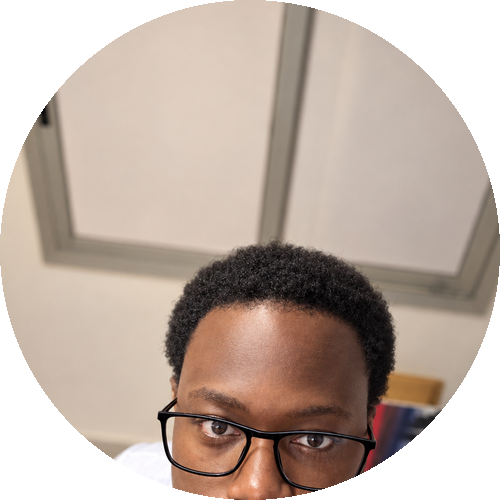
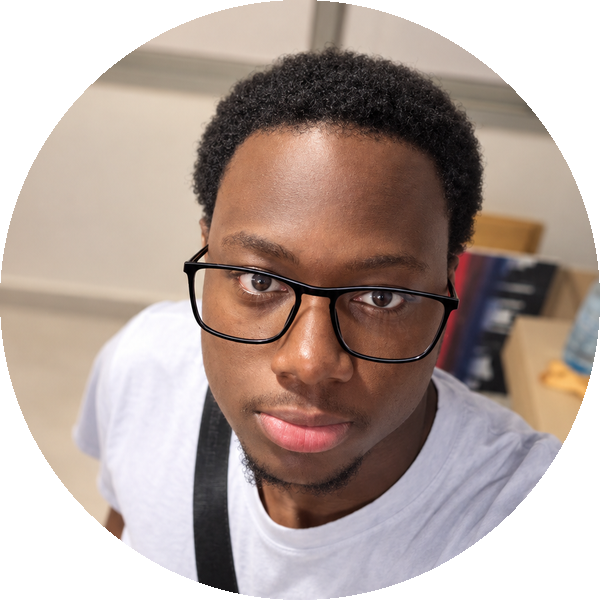
Refonte du profil avec les vraies infos (nom, projets, certifications) et photo mieux cadree

diff --git a/README.md b/README.md
@@ -1,20 +1,23 @@
 <div align="center">
 
-<img src="https://capsule-render.vercel.app/api?type=waving&color=0:6a11cb,100:2575fc&height=220&section=header&text=SilverCross&fontSize=60&fontColor=ffffff&animation=fadeIn&fontAlignY=38&desc=Developer%20%7C%20Builder%20%7C%20Explorer&descAlignY=58&descSize=20" width="100%"/>
+<img src="https://capsule-render.vercel.app/api?type=waving&color=0:6A11CB,100:2575FC&height=230&section=header&text=Brou%20Kablan%20Davy&fontSize=52&fontColor=ffffff&animation=fadeIn&fontAlignY=36&desc=D%C3%A9veloppeur%20Web%20%26%20Designer%20%E2%80%94%20C%C3%B4te%20d'Ivoire&descAlignY=56&descSize=18" width="100%"/>
 
 </div>
 
 <table>
 <tr>
-<td width="180" align="center">
-<img src="assets/avatar_circle.png" width="160" height="160" alt="SilverCross"/>
+<td width="190" align="center">
+<img src="assets/avatar_circle.png" width="170" height="170" alt="Brou Kablan Davy"/>
+<br/>
+<sub><b>@silvercross2021-web</b></sub>
 </td>
 <td>
 
-<img src="https://readme-typing-svg.demolab.com?font=Fira+Code&weight=600&size=26&duration=3000&pause=800&color=6A11CBFF&center=false&vCenter=true&multiline=true&repeat=true&width=560&height=80&lines=Salut%2C+moi+c'est+SilverCross+%F0%9F%91%8B;Je+construis+des+apps+web%2C+mobile+%26+IoT;Toujours+en+train+d'apprendre+quelque+chose+de+nouveau" alt="Typing SVG" />
+<img src="https://readme-typing-svg.demolab.com?font=Fira+Code&weight=600&size=24&duration=3000&pause=900&color=6A11CB&center=false&vCenter=true&multiline=true&repeat=true&width=580&height=90&lines=Salut%2C+moi+c'est+Davy+%F0%9F%91%8B;%C3%89tudiant+en+G%C3%A9nie+Logiciel+%40+IIT;Full-Stack+%7C+Automatisation+%7C+IA" alt="Typing SVG" />
 
-<img src="https://komarev.com/ghpvc/?username=silvercross2021-web&label=Visiteurs+du+profil&color=6a11cb&style=flat" alt="Profile views"/>
-<img src="https://img.shields.io/github/followers/silvercross2021-web?label=Followers&style=flat&color=2575fc" alt="Followers"/>
+<img src="https://komarev.com/ghpvc/?username=silvercross2021-web&label=Visiteurs&color=6A11CB&style=flat" alt="Profile views"/>
+<img src="https://img.shields.io/github/followers/silvercross2021-web?label=Followers&style=flat&color=2575FC" alt="Followers"/>
+<a href="https://folio-silvercross.vercel.app/"><img src="https://img.shields.io/badge/Portfolio-folio--silvercross.vercel.app-6A11CB?style=flat" alt="Portfolio"/></a>
 
 </td>
 </tr>
@@ -22,46 +25,127 @@
 
 ---
 
-### 🧭 À propos de moi
+### 🧭 À propos
 
-- 🔭 Je travaille sur des projets **web, mobile (Flutter) et IoT (ESP32 / Arduino)**
-- 🧠 Intéressé par la **blockchain (Solidity)**, l'**IA** et l'automatisation
-- 🌱 En apprentissage continu — actuellement sur de nouveaux frameworks et outils
-- 💬 Demande-moi ce que tu veux sur le dev web, mobile ou embarqué
-- ⚡ Fun fact : ce profil a été mis en place avec un peu d'aide animée 🐍
+Étudiant en **Licence 3 Génie Logiciel** à l'**Institut Ivoirien de Technologie (IIT)**, polyvalent et motivé, avec des compétences solides en développement logiciel et développement web. J'aime relever les défis et contribuer à des projets innovants tout en poursuivant mon apprentissage.
+
+🏆 **Vainqueur du Hackathon DevFest Abidjan 2025** avec **Justice-Guide AI**, une plateforme juridique IA multilingue (Français / Dioula / Baoulé) pour la Côte d'Ivoire.
+
+- 📍 Basé en Côte d'Ivoire
+- 🎓 IIT — Institut Ivoirien de Technologie
+- 💬 Ouvert aux opportunités stage / projets freelance
+- 📫 brandonnebrou257@gmail.com
 
 ---
 
-### 🛠 Stack & outils
+### 🛠 Stack technique
 
-<p align="center">
-<img src="https://img.shields.io/badge/Flutter-02569B?style=for-the-badge&logo=flutter&logoColor=white"/>
-<img src="https://img.shields.io/badge/Dart-0175C2?style=for-the-badge&logo=dart&logoColor=white"/>
+**Langages**
+
+<p align="left">
+<img src="https://img.shields.io/badge/C%23-239120?style=for-the-badge&logo=csharp&logoColor=white"/>
 <img src="https://img.shields.io/badge/Python-3776AB?style=for-the-badge&logo=python&logoColor=white"/>
+<img src="https://img.shields.io/badge/TypeScript-3178C6?style=for-the-badge&logo=typescript&logoColor=white"/>
+<img src="https://img.shields.io/badge/Dart-0175C2?style=for-the-badge&logo=dart&logoColor=white"/>
 <img src="https://img.shields.io/badge/JavaScript-F7DF1E?style=for-the-badge&logo=javascript&logoColor=black"/>
-<img src="https://img.shields.io/badge/Solidity-363636?style=for-the-badge&logo=solidity&logoColor=white"/>
-<img src="https://img.shields.io/badge/Arduino-00979D?style=for-the-badge&logo=arduino&logoColor=white"/>
-<img src="https://img.shields.io/badge/ESP32-E7352C?style=for-the-badge&logo=espressif&logoColor=white"/>
-<img src="https://img.shields.io/badge/SQL-4479A1?style=for-the-badge&logo=mysql&logoColor=white"/>
+</p>
+
+**Web, mobile & API**
+
+<p align="left">
+<img src="https://img.shields.io/badge/Angular-DD0031?style=for-the-badge&logo=angular&logoColor=white"/>
+<img src="https://img.shields.io/badge/Flutter-02569B?style=for-the-badge&logo=flutter&logoColor=white"/>
+<img src="https://img.shields.io/badge/Django-092E20?style=for-the-badge&logo=django&logoColor=white"/>
+<img src="https://img.shields.io/badge/Flask-000000?style=for-the-badge&logo=flask&logoColor=white"/>
+<img src="https://img.shields.io/badge/Node.js-339933?style=for-the-badge&logo=nodedotjs&logoColor=white"/>
+<img src="https://img.shields.io/badge/REST%20API-6A11CB?style=for-the-badge&logo=fastapi&logoColor=white"/>
+</p>
+
+**Automatisation, cloud & outils**
+
+<p align="left">
+<img src="https://img.shields.io/badge/Odoo-714B67?style=for-the-badge&logo=odoo&logoColor=white"/>
+<img src="https://img.shields.io/badge/RPA%20%2F%20IA-2575FC?style=for-the-badge&logo=automattic&logoColor=white"/>
+<img src="https://img.shields.io/badge/Huawei%20Cloud-FF0000?style=for-the-badge&logo=huawei&logoColor=white"/>
 <img src="https://img.shields.io/badge/Git-F05032?style=for-the-badge&logo=git&logoColor=white"/>
 <img src="https://img.shields.io/badge/GitHub-181717?style=for-the-badge&logo=github&logoColor=white"/>
+<img src="https://img.shields.io/badge/Figma-F24E1E?style=for-the-badge&logo=figma&logoColor=white"/>
 </p>
+
+---
+
+### 🚀 Projets phares
+
+<table>
+<tr>
+<td width="50%" valign="top">
+
+**🏆 Justice-Guide AI**
+Plateforme juridique IA multilingue (FR / Dioula / Baoulé) — Vainqueur DevFest Abidjan 2025
+[Voir →](https://folio-silvercross.vercel.app/work/3)
+
+**📱 Application Mobile Nsakpa**
+App cross-platform — `Flutter` `Dart` `Django` `REST API`
+[Voir →](https://folio-silvercross.vercel.app/work/2)
+
+**🏢 Gestion de parc informatique**
+ERP interne — `Odoo`
+[Voir →](https://folio-silvercross.vercel.app/work/8)
+
+**🤖 Agent d'automatisation IA**
+RPA & Excel — `Automatisation` `IA`
+[Voir →](https://folio-silvercross.vercel.app/work/7)
+
+</td>
+<td width="50%" valign="top">
+
+**📊 Application MonÉtab**
+Gestion scolaire — `Angular` `TypeScript` `Node.js` `RxJS`
+[Voir →](https://folio-silvercross.vercel.app/work/1)
+
+**🎓 Gestion scolaire (C#)**
+Application de gestion — `C#`
+[Voir →](https://folio-silvercross.vercel.app/work/6)
+
+**🛒 Site e-commerce**
+Boutique en ligne — `Django`
+[Voir →](https://folio-silvercross.vercel.app/work/5)
+
+**📅 Gestion de réservations**
+Système de réservation — `Flask`
+[Voir →](https://folio-silvercross.vercel.app/work/4)
+
+</td>
+</tr>
+</table>
+
+<p align="center"><a href="https://folio-silvercross.vercel.app/work">→ Voir tous les projets sur mon portfolio</a></p>
+
+---
+
+### 🎓 Certifications
+
+- **HCIA-openEuler V1.0 Course** — Huawei ICT Academy
+- **AI Basic: Overview of AI** (CRA Training Program) — Huawei ICT Academy & CRA
+- **Overview of AI** — Huawei ICT Academy
+- **Hackathon DevFest Cloud Abidjan & Cocody 2025** — Google Developer Groups (GDG Cloud)
+- **Achieve 10X Productivity with AI-driven Tools** — Universal AI University
 
 ---
 
 ### 📊 Statistiques GitHub
 
 <p align="center">
-<img src="https://github-readme-stats.vercel.app/api?username=silvercross2021-web&show_icons=true&theme=tokyonight&hide_border=true&count_private=true" height="165"/>
-<img src="https://github-readme-streak-stats.herokuapp.com/?user=silvercross2021-web&theme=tokyonight&hide_border=true" height="165"/>
+<img src="https://github-readme-stats.vercel.app/api?username=silvercross2021-web&show_icons=true&hide_border=true&bg_color=0D1117&title_color=6A11CB&icon_color=2575FC&text_color=C9D1D9&count_private=true" height="165"/>
+<img src="https://github-readme-streak-stats.herokuapp.com/?user=silvercross2021-web&hide_border=true&background=0D1117&ring=6A11CB&fire=2575FC&currStreakLabel=2575FC&sideLabels=C9D1D9&currStreakNum=C9D1D9&sideNums=C9D1D9&dates=8B949E" height="165"/>
 </p>
 
 <p align="center">
-<img src="https://github-readme-stats.vercel.app/api/top-langs/?username=silvercross2021-web&layout=compact&theme=tokyonight&hide_border=true" height="165"/>
+<img src="https://github-readme-stats.vercel.app/api/top-langs/?username=silvercross2021-web&layout=compact&hide_border=true&bg_color=0D1117&title_color=6A11CB&text_color=C9D1D9" height="165"/>
 </p>
 
 <p align="center">
-<img src="https://github-profile-trophy.vercel.app/?username=silvercross2021-web&theme=tokyonight&no-frame=true&row=1&column=6" />
+<img src="https://github-profile-trophy.vercel.app/?username=silvercross2021-web&theme=dracula&no-frame=true&row=1&column=6" />
 </p>
 
 ---
@@ -74,6 +158,17 @@
   <img alt="snake contribution animation" src="https://raw.githubusercontent.com/silvercross2021-web/silvercross2021-web/output/github-contribution-grid-snake.svg">
 </picture>
 
-> L'animation ci-dessus apparaît après la première exécution automatique (quelques minutes après le premier push).
+---
 
-<img src="https://capsule-render.vercel.app/api?type=waving&color=0:2575fc,100:6a11cb&height=120&section=footer" width="100%"/>
+<div align="center">
+
+### 🔗 Me retrouver
+
+<a href="https://www.linkedin.com/in/kablan-christ-brandonne-davy-brou-7b5ab6394/"><img src="https://img.shields.io/badge/LinkedIn-0A66C2?style=for-the-badge&logo=linkedin&logoColor=white"/></a>
+<a href="https://www.youtube.com/@DavKlan"><img src="https://img.shields.io/badge/YouTube-FF0000?style=for-the-badge&logo=youtube&logoColor=white"/></a>
+<a href="mailto:brandonnebrou257@gmail.com"><img src="https://img.shields.io/badge/Email-6A11CB?style=for-the-badge&logo=gmail&logoColor=white"/></a>
+<a href="https://folio-silvercross.vercel.app/"><img src="https://img.shields.io/badge/Portfolio-2575FC?style=for-the-badge&logo=vercel&logoColor=white"/></a>
+
+</div>
+
+<img src="https://capsule-render.vercel.app/api?type=waving&color=0:2575FC,100:6A11CB&height=120&section=footer" width="100%"/>
